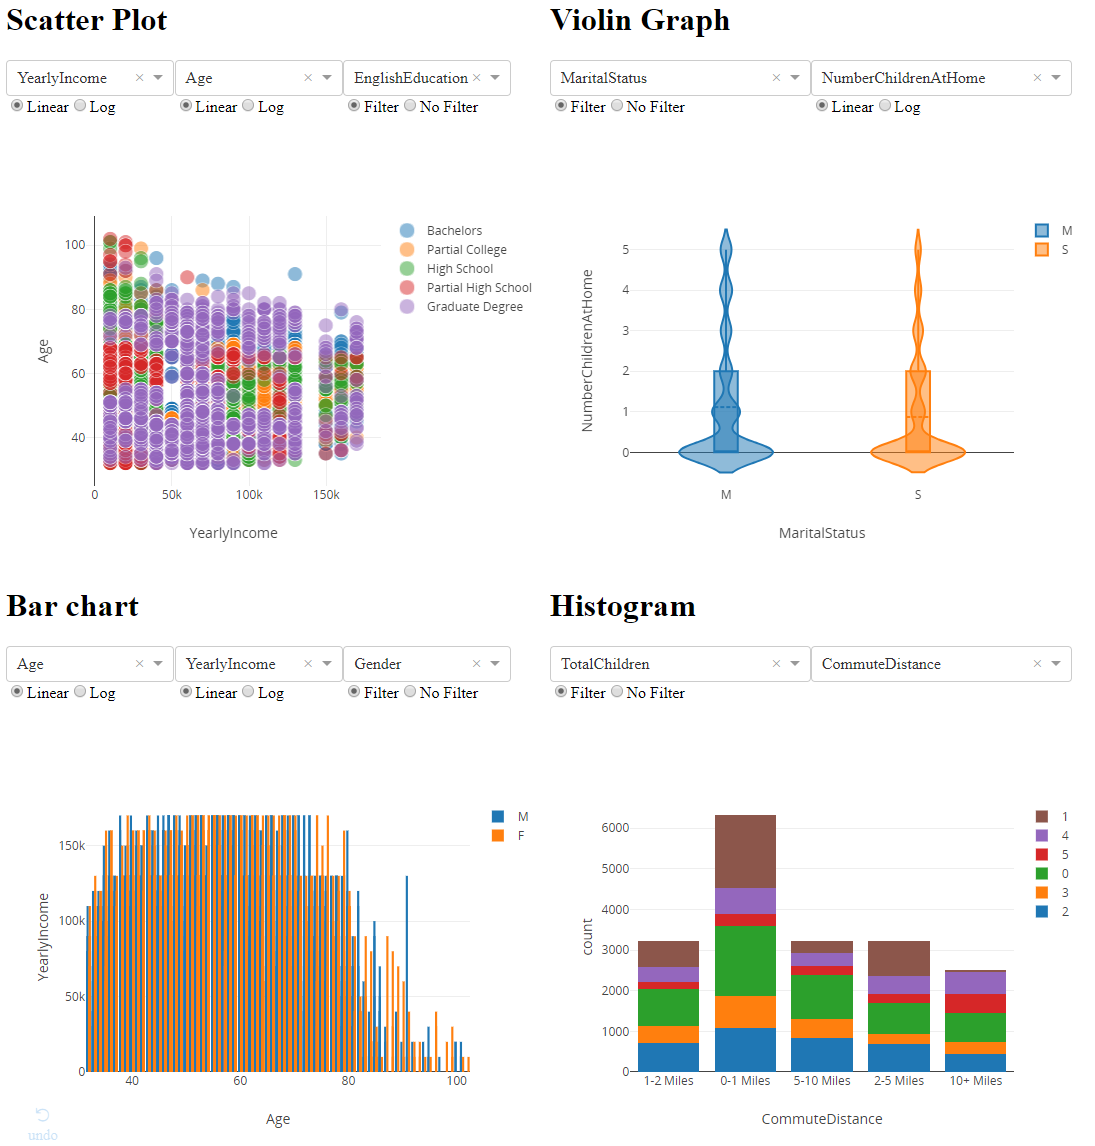
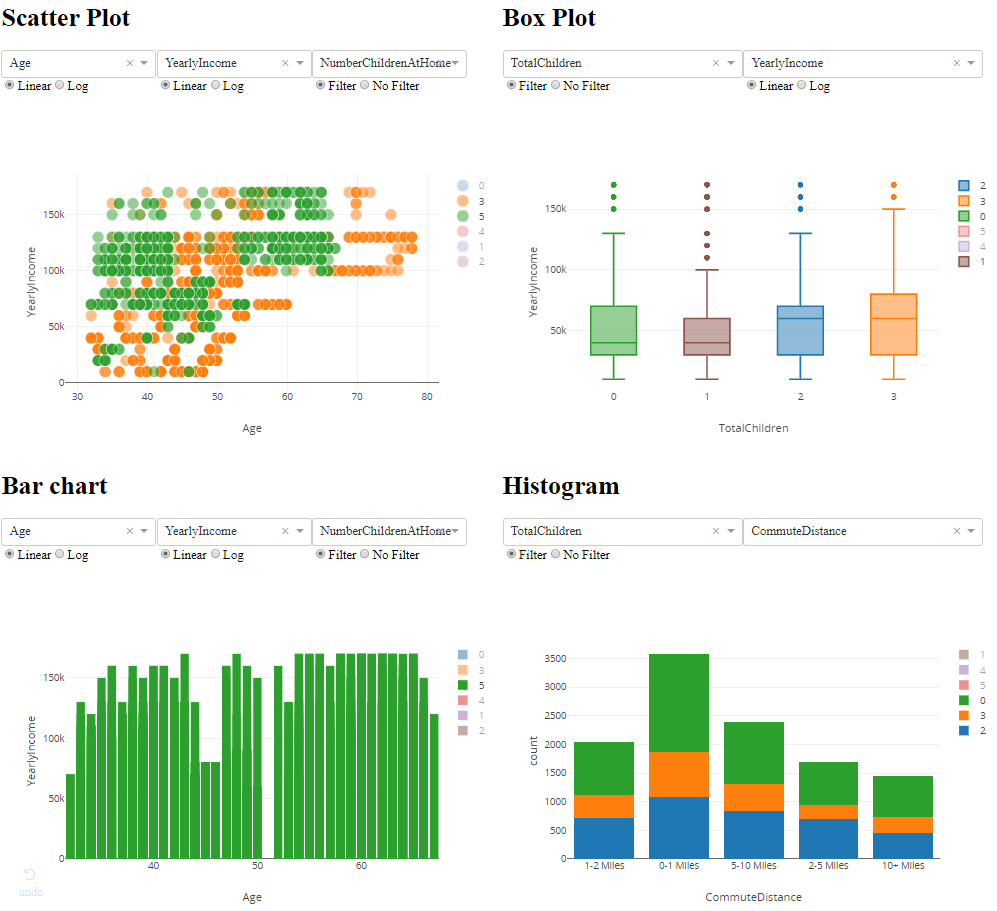
Change violin chart to box plot

diff --git a/app.py b/app.py
@@ -136,19 +136,19 @@ app.layout = html.Div(children=[
  
 	#Right column
     html.Div([
-		#Violin graph
-        html.H1(children='Violin Graph'),
+		#Box Plot
+        html.H1(children='Box Plot'),
         html.Div([
             html.Div([
 				#X axis data selection
                 dcc.Dropdown(
-                    id='violin_xaxis-column',
+                    id='box_xaxis-column',
                     options=[{'label': i, 'value': i} for i in available_indicators],
                     value=available_indicators[0]
                 ),
 				#Choice between linear or log axis
                 dcc.RadioItems(
-                    id='violin_xaxis-type',
+                    id='box_xaxis-type',
                     options=[{'label': i, 'value': i} for i in ['Filter', 'No Filter']],
                     value='No Filter',
                     labelStyle={'display': 'inline-block'}
@@ -159,13 +159,13 @@ app.layout = html.Div(children=[
             html.Div([
 				#Y axis data selection
                 dcc.Dropdown(
-                    id='violin_yaxis-column',
+                    id='box_yaxis-column',
                     options=[{'label': i, 'value': i} for i in available_indicators],
                     value=available_indicators[1]
                 ),
 				#Choice between linear or log axis
                 dcc.RadioItems(
-                    id='violin_yaxis-type',
+                    id='box_yaxis-type',
                     options=[{'label': i, 'value': i} for i in ['Linear', 'Log']],
                     value='Linear',
                     labelStyle={'display': 'inline-block'}
@@ -174,7 +174,7 @@ app.layout = html.Div(children=[
             
         ]),  
 		#Plot graph		
-        dcc.Graph(id='violin_graph'),
+        dcc.Graph(id='box_graph'),
         
 		#Histogram    
 		html.H1(children='Histogram'),
@@ -313,19 +313,19 @@ def update_graph(xaxis_column_name, yaxis_column_name, zaxis_column_name,
         )
     }
 
-#Callback for Violin Graph
+#Callback for Box Plot
 @app.callback(
-    dash.dependencies.Output('violin_graph', 'figure'),
-    [dash.dependencies.Input('violin_xaxis-column', 'value'),
-     dash.dependencies.Input('violin_yaxis-column', 'value'),
-     dash.dependencies.Input('violin_xaxis-type', 'value'),
-     dash.dependencies.Input('violin_yaxis-type', 'value'),])
+    dash.dependencies.Output('box_graph', 'figure'),
+    [dash.dependencies.Input('box_xaxis-column', 'value'),
+     dash.dependencies.Input('box_yaxis-column', 'value'),
+     dash.dependencies.Input('box_xaxis-type', 'value'),
+     dash.dependencies.Input('box_yaxis-type', 'value'),])
 def update_graph(xaxis_column_name, yaxis_column_name, xaxis_type, yaxis_type):
     if xaxis_type == 'Filter':
         data = []
         for value in df[xaxis_column_name].unique():
             trace = {
-                    "type": 'violin',
+                    "type": 'box',
                     "x": value,
                     "y": df[df[xaxis_column_name] == value][yaxis_column_name],
                     "name": str(value),
@@ -339,7 +339,7 @@ def update_graph(xaxis_column_name, yaxis_column_name, xaxis_type, yaxis_type):
             data.append(trace)
     else:
         trace = {
-                    "type": 'violin',
+                    "type": 'box',
                     "x0": str(yaxis_column_name),
                     "y": df[yaxis_column_name].values,
                     "box": {
